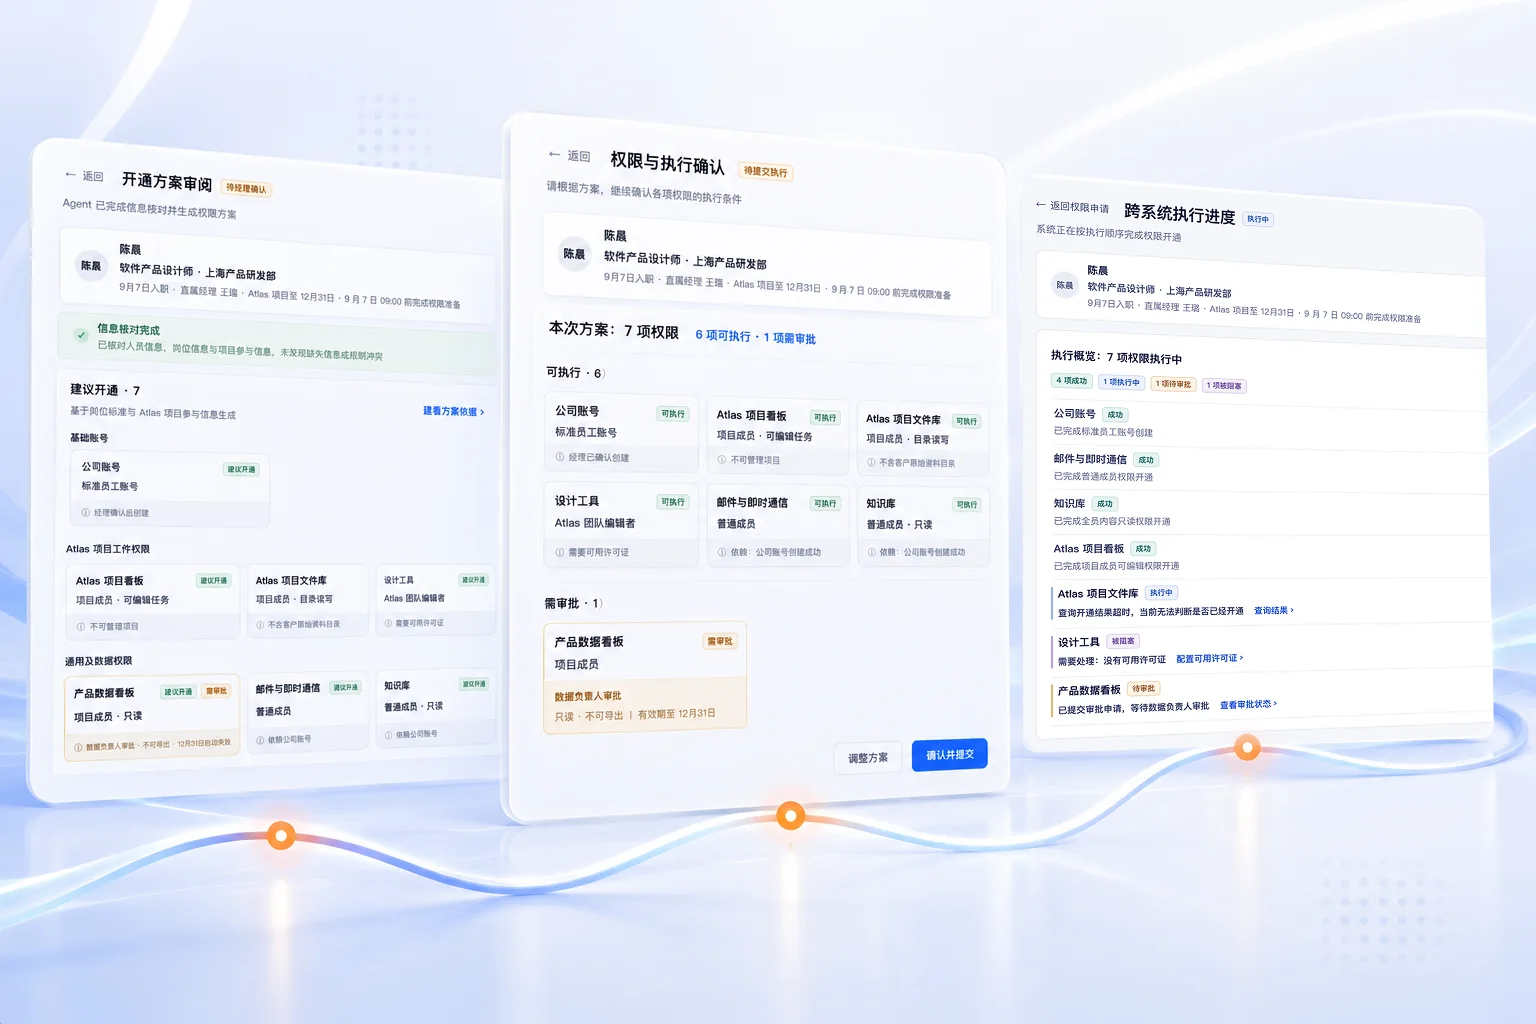
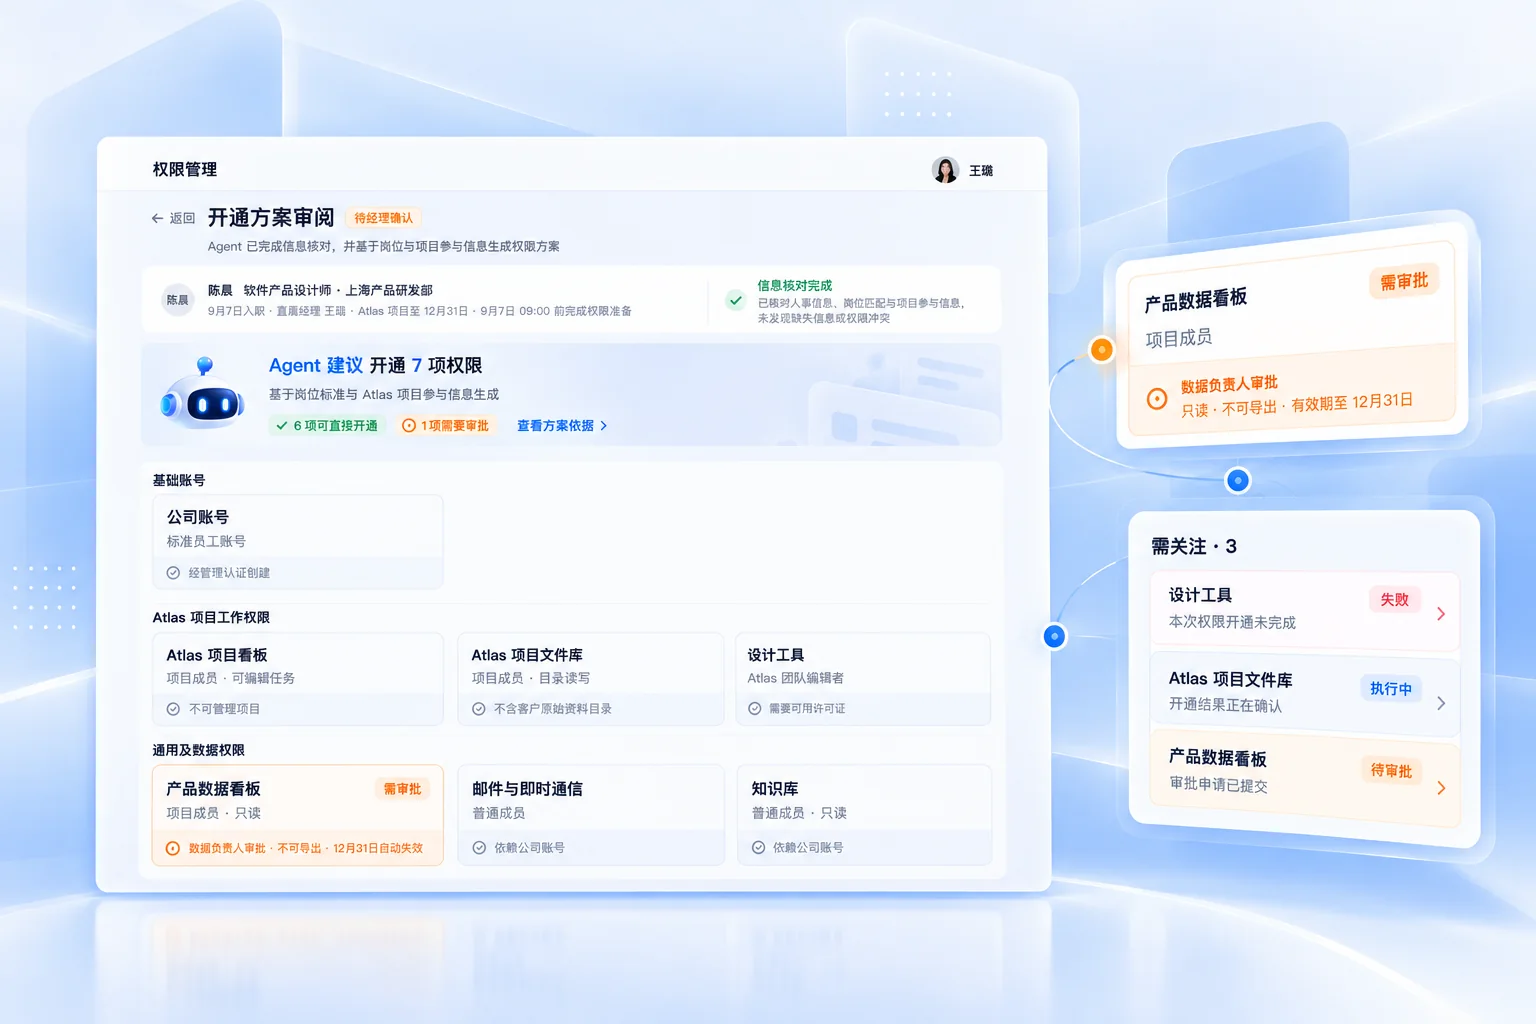
refresh AI Agent portfolio cover and content

diff --git a/index.html b/index.html
@@ -323,14 +323,14 @@
             <a class="project-entry project-entry--placeholder" href="ai-agent/index.html">
               <div class="project-entry__header">
                 <p class="project-entry__eyebrow"><span class="project-entry__index">03 /</span> <span class="project-entry__category">AI WORKFLOW</span></p>
-                <h3>Agent 权限开通助手<span class="project-entry__icon" aria-hidden="true"><svg viewBox="0 0 16 16" focusable="false"><path d="M5 11 11 5M6 5h5v5" /></svg></span></h3>
+                <h3>AI Agent 权限工作流<span class="project-entry__icon" aria-hidden="true"><svg viewBox="0 0 16 16" focusable="false"><path d="M5 11 11 5M6 5h5v5" /></svg></span></h3>
                 <div class="project-entry__support">
-                  <p class="project-entry__description">Agent 主动完成权限判断、方案生成与跨系统执行</p>
+                  <p class="project-entry__description">围绕权限开通场景，探索 Agent 的自主执行、人工介入与异常接管</p>
                 </div>
               </div>
               <div class="project-entry__visual">
                 <img src="图片准备/AI Agent_cover.webp" alt="Agent 权限开通助手项目界面" loading="lazy" decoding="async">
-                <span class="project-entry__ai-badge">✦ AI 全流程参与设计</span>
+                <span class="project-entry__ai-badge">✦ AI 协作设计实践</span>
                 <span class="project-entry__cursor" aria-hidden="true">VIEW CASE</span>
               </div>
             </a>
